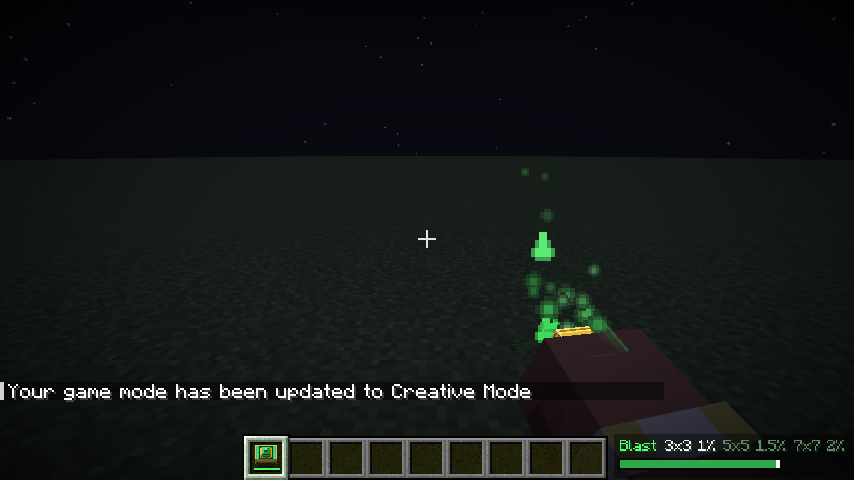
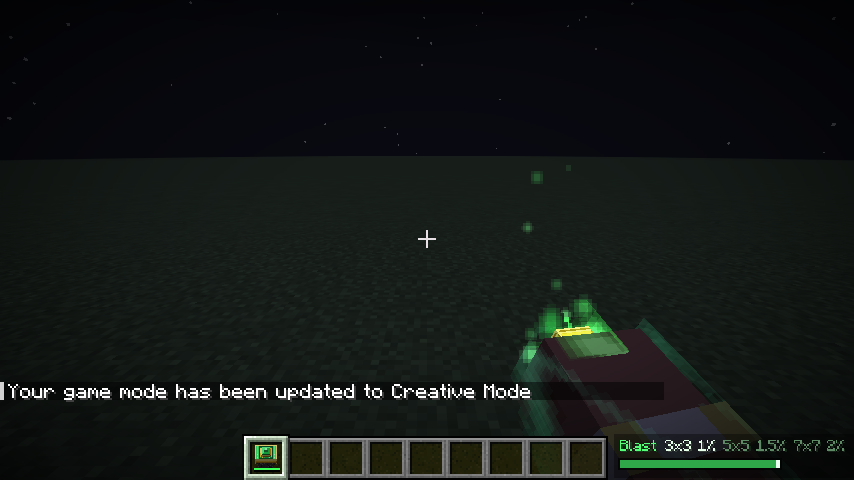
Soft aura outline round the worn ring in its corps colour
Claude-Session: https://claude.ai/code/session_01WkQVgfUdS6cQf824CEqvqv

diff --git a/src/client/java/com/sparky/lanternring/client/RingModels.java b/src/client/java/com/sparky/lanternring/client/RingModels.java
@@ -18,6 +18,7 @@ import net.minecraft.client.renderer.rendertype.RenderType;
 import net.minecraft.client.renderer.rendertype.RenderTypes;
 import net.minecraft.client.renderer.texture.OverlayTexture;
 import net.minecraft.resources.Identifier;
+import net.minecraft.util.Mth;
 
 /**
  * The 3D ring worn on the player's arm. Coordinates are in arm-model pixels: the arm cube runs
@@ -103,6 +104,18 @@ public final class RingModels {
 	}
 
 	private static final float RING_Z = -0.5f;
+	private static final Identifier AURA = LanternRing.id("textures/entity/ring_halo.png");
+	/** How much bigger than the ring its aura shell is. */
+	private static final float AURA_GROW = 1.14f;
+
+	/** Additive: the corps colour scaled by brightness. Under a shader pack: see-through, faint by alpha. */
+	private static int auraColor(Corps corps, float pulse, boolean shaders) {
+		int rgb = corps.rgb;
+		if (shaders) return (int) (0.5f * pulse * 255) << 24 | rgb & 0xFFFFFF;
+		float b = 0.45f * pulse;
+		int r = (int) ((rgb >> 16 & 0xFF) * b), g = (int) ((rgb >> 8 & 0xFF) * b), bl = (int) ((rgb & 0xFF) * b);
+		return 0xFF000000 | r << 16 | g << 8 | bl;
+	}
 
 	private static void renderBb(PoseStack poseStack, SubmitNodeCollector collector, int light, LabSettings.RingModel model,
 			Placement at, boolean leftArm, boolean slim) {
@@ -115,6 +128,13 @@ public final class RingModels {
 		if (leftArm) poseStack.rotateDegrees(com.mojang.math.Axis.YP, 180f);
 		poseStack.scale(1 / at.units(), 1 / at.units(), 1 / at.units());
 		bb.renderLit(poseStack, collector, BbModel.glow(1f));
+		// An aura outline round the ring in its corps' colour, like the wearer's glint (RingAuraLayer).
+		float age = (System.nanoTime() / 1_000_000L % 3_600_000L) / 50f;
+		float pulse = 0.8f + 0.2f * Mth.sin(age * 0.1f);
+		boolean shaders = SoulSight.shaderPackOn();
+		RenderType aura = shaders ? RenderTypes.entityTranslucentEmissive(AURA)
+				: RenderTypes.energySwirl(AURA, age * 0.004f % 1f, age * 0.0025f % 1f);
+		bb.renderAura(poseStack, collector, aura, auraColor(corps, pulse, shaders), AURA_GROW);
 		poseStack.popPose();
 	}
 

diff --git a/src/client/java/com/sparky/lanternring/client/BbModel.java b/src/client/java/com/sparky/lanternring/client/BbModel.java
@@ -165,6 +165,20 @@ public final class BbModel {
 		poseStack.popPose();
 	}
 
+	/**
+	 * A soft shell of light round the whole model: every cube again, {@code grow} times bigger, in
+	 * {@code type} (an additive or see-through glow) tinted {@code color}.
+	 */
+	public void renderAura(PoseStack poseStack, SubmitNodeCollector collector, RenderType type, int color, float grow) {
+		poseStack.pushPose();
+		poseStack.rotateDegrees(Axis.ZP, 180f);
+		poseStack.scale(grow, grow, grow);
+		for (ModelPart part : new ModelPart[] {solid, glow, core}) {
+			if (has(part)) collector.order(1).submitModelPart(part, poseStack, type, FULL_BRIGHT, OverlayTexture.NO_OVERLAY, null, color);
+		}
+		poseStack.popPose();
+	}
+
 	/** Draws only the glowing cubes, e.g. a second time on top for extra brightness. */
 	public void renderGlow(PoseStack poseStack, SubmitNodeCollector collector, int glowColor) {
 		poseStack.pushPose();

diff --git a/tools/flight_trail_texture.py b/tools/flight_trail_texture.py
@@ -18,3 +18,6 @@ for y in range(H):
         px[x, y] = (255, 255, 255, int(255 * a))
 os.makedirs(os.path.join(OUT, "textures/entity"), exist_ok=True)
 img.save(os.path.join(OUT, "textures/entity/flight_trail.png"))
+
+# The ring's aura shell (RingModels): plain white, tinted by the corps colour when drawn.
+Image.new("RGBA", (16, 16), (255, 255, 255, 255)).save(os.path.join(OUT, "textures/entity/ring_halo.png"))
